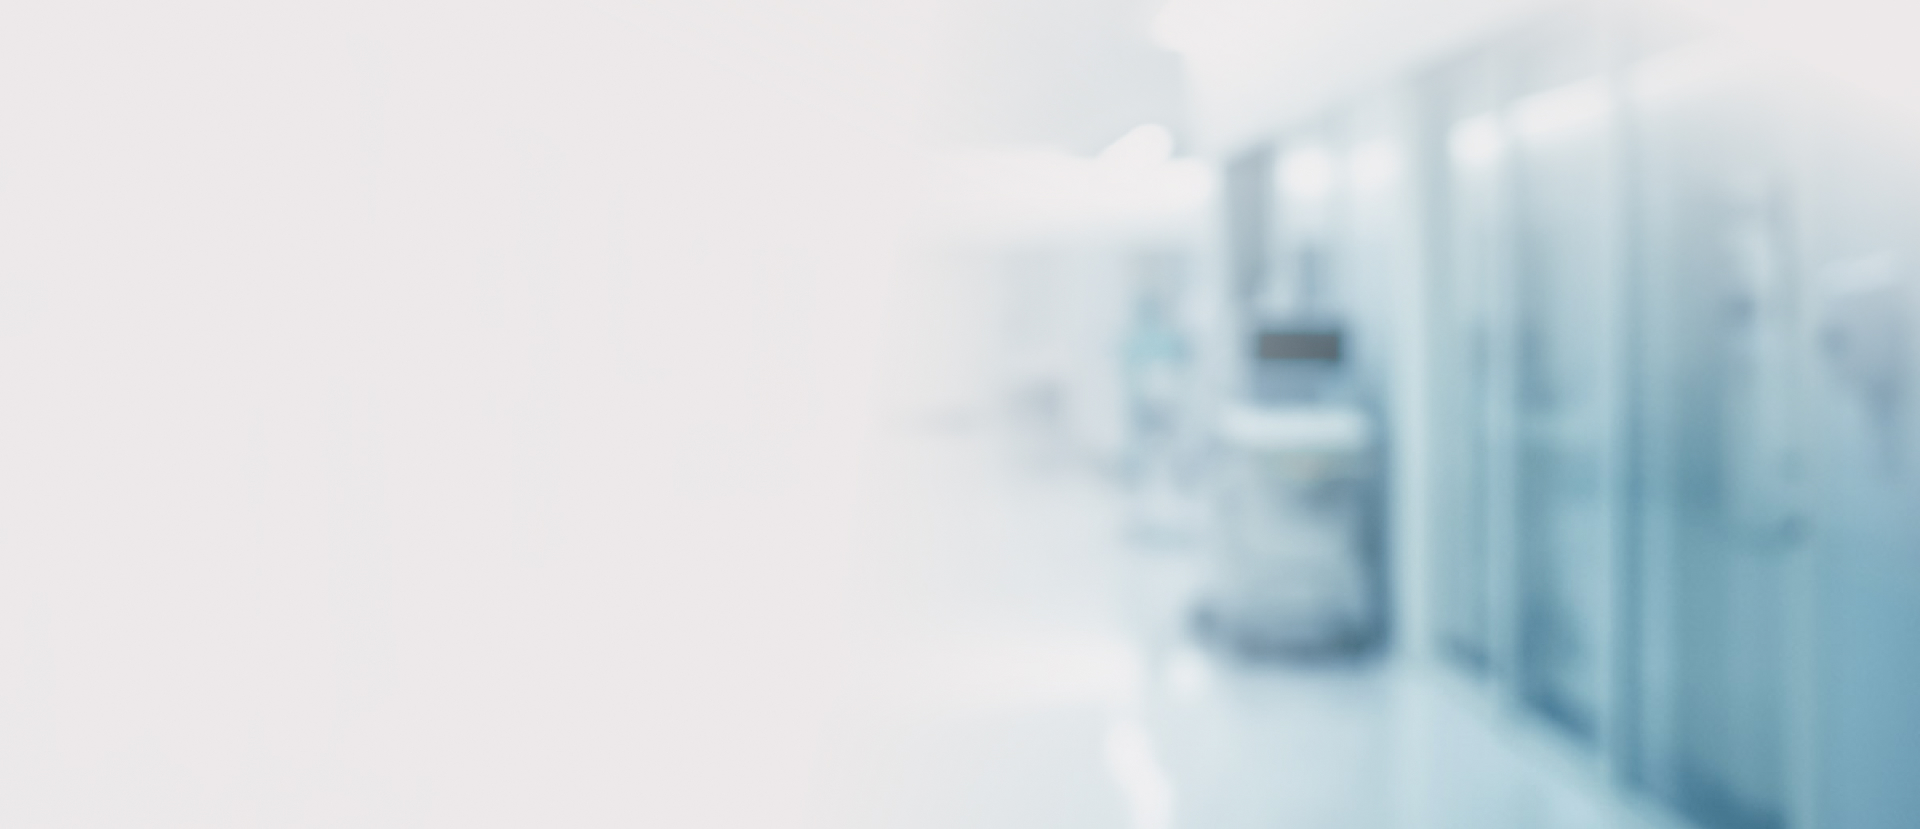
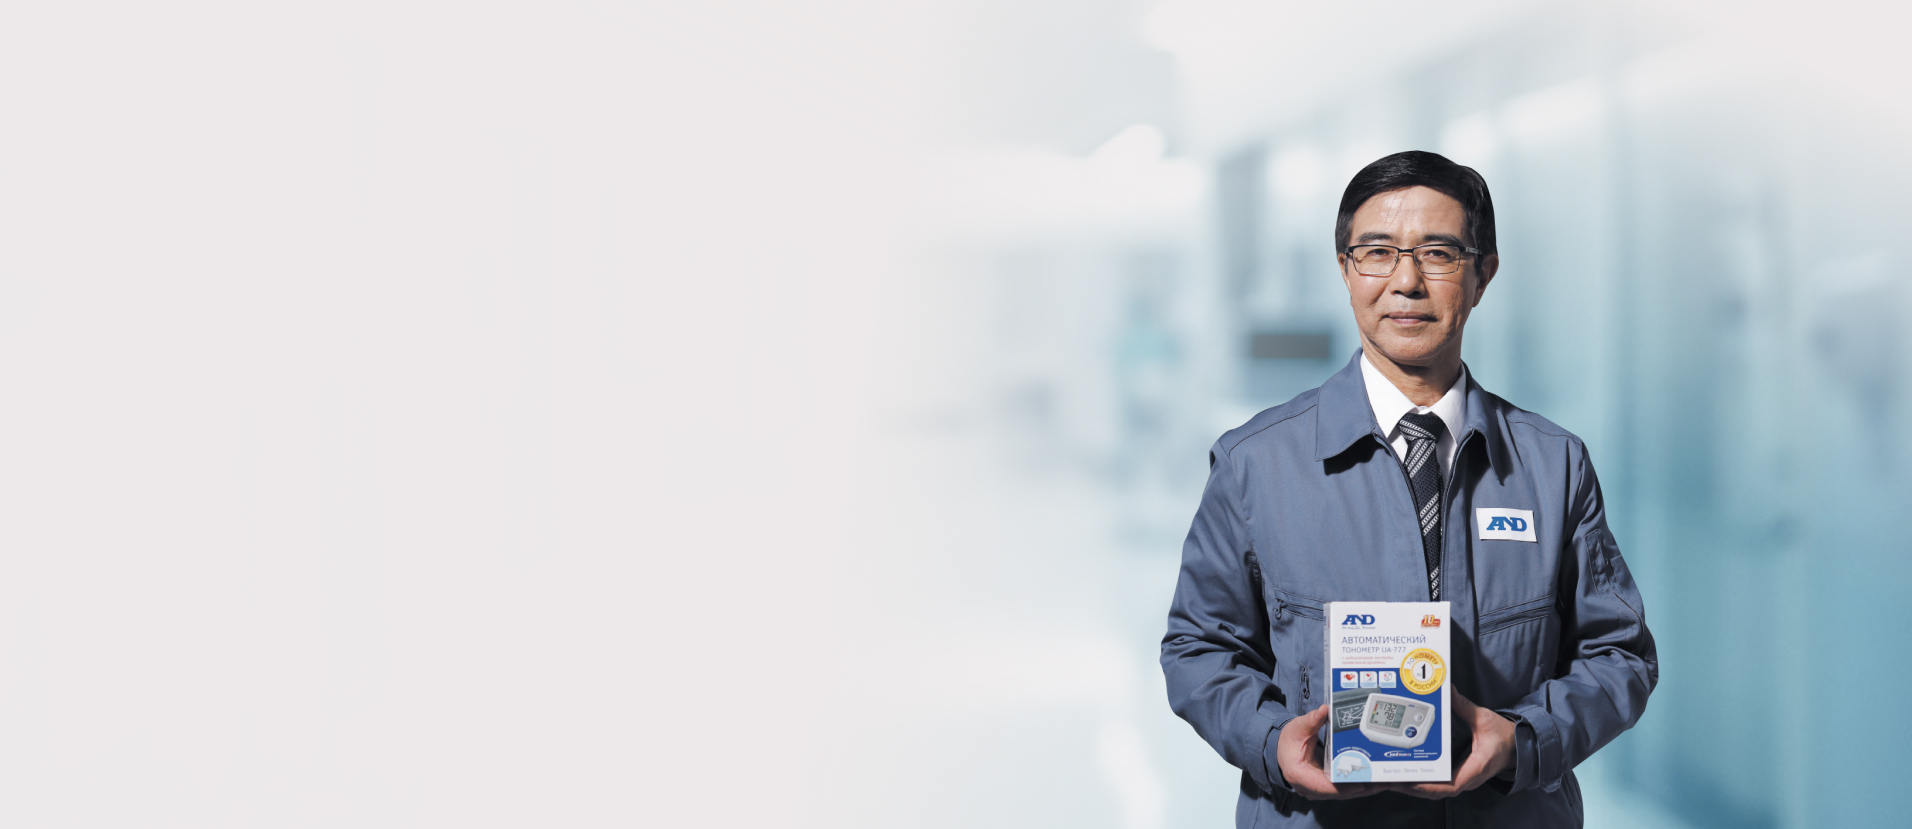
Header

Changed region(s): [[0.5863, 0.1809, 0.8949, 1.0]]

diff --git a/index1.html b/index1.html
@@ -11,7 +11,109 @@
   <link rel="stylesheet" href="./css/media.css">
   <title>AND</title>
 </head>
+<header id="header">
+  <div class="container">
+    <div class="header">
+      <a href="#"><img src="./img/logo.png" alt="AMD" class="header__logo logo"></a>
+      <div class="header__wrap">
+        <nav class="header__navigation">
+          <ul class="header__menu">
+            <li class="header__item"><a href="#" class="header__item-link">О товаре</a></li>
+            <li class="header__item"><a href="#" class="header__item-link">Где купить</a></li>
+            <li class="header__item"><a href="#" class="header__item-link">Помощь</a></li>
+            <li class="header__item"><a href="#" class="header__item-link">Контакты</a></li>
+          </ul>
+        </nav>
+        <div class="header__phone">
+          <a href="tel: 8(800)2000380" class="phone-number">
+            <svg width="23" height="23" viewBox="0 0 23 23" class="phone-icon">
+              <path
+                d="M21.1209 22.5C9.39076 22.5165 0.487638 13.5075 0.500013 1.87912C0.500013 1.11875 1.11601 0.5 1.87501 0.5H5.50501C6.18564 0.5 6.76451 1.0005 6.86489 1.67425C7.10428 3.28995 7.57428 4.86294 8.26051 6.34513L8.40214 6.65037C8.49727 6.85579 8.51774 7.08796 8.46 7.30685C8.40227 7.52573 8.26996 7.71761 8.08589 7.84938C6.96114 8.65238 6.53214 10.268 7.40801 11.5275C8.50664 13.1088 9.89126 14.4948 11.4725 15.5934C12.7334 16.4679 14.349 16.0389 15.1506 14.9155C15.2823 14.7309 15.4743 14.5981 15.6935 14.5401C15.9127 14.4821 16.1453 14.5025 16.351 14.5979L16.6549 14.7381C18.1371 15.4256 19.7101 15.8959 21.3258 16.1351C21.9995 16.2355 22.5 16.8144 22.5 17.4964V21.125C22.5 21.3057 22.4644 21.4846 22.3952 21.6515C22.326 21.8184 22.2246 21.9701 22.0968 22.0978C21.969 22.2255 21.8172 22.3267 21.6502 22.3957C21.4833 22.4648 21.3043 22.5002 21.1236 22.5H21.1209Z" />
+            </svg>
+            8 800 200-03-80
+          </a>
+        </div>
+        <div class="header__social-web">
+          <a href="#" class="header__social-link">
+            <svg width="39" height="39" viewBox="0 0 39 39" fill="none" xmlns="http://www.w3.org/2000/svg">
+              <circle cx="19.5" cy="19.5" r="19.5" fill="#4489C8" />
+              <g clip-path="url(#clip0)">
+                <path fill-rule="evenodd" clip-rule="evenodd"
+                  d="M25.3176 20.4107C25.8536 20.9159 26.4193 21.3913 26.9 21.9475C27.1123 22.1946 27.3133 22.4496 27.4671 22.7365C27.685 23.1442 27.4877 23.5929 27.109 23.6172L24.7552 23.6162C24.1481 23.6649 23.6638 23.4289 23.2566 23.0281C22.9307 22.7076 22.6289 22.3665 22.3155 22.0352C22.1871 21.8998 22.0526 21.7724 21.892 21.6716C21.5706 21.4703 21.2917 21.5319 21.1081 21.8555C20.9211 22.1846 20.8787 22.549 20.8603 22.9158C20.8351 23.451 20.6675 23.5917 20.1108 23.6162C18.9209 23.6703 17.7917 23.4965 16.7427 22.917C15.8178 22.4061 15.1006 21.6848 14.4764 20.8683C13.261 19.2783 12.3302 17.5312 11.4937 15.7351C11.3054 15.3304 11.4431 15.1132 11.9055 15.1055C12.6734 15.0911 13.4412 15.0921 14.21 15.1045C14.5221 15.1089 14.7287 15.2817 14.8492 15.5664C15.2646 16.5527 15.773 17.4911 16.4111 18.3609C16.581 18.5924 16.7543 18.824 17.001 18.987C17.274 19.1675 17.4818 19.1077 17.6102 18.8141C17.6917 18.6279 17.7274 18.4274 17.7458 18.228C17.8066 17.5421 17.8146 16.8573 17.7079 16.1738C17.6424 15.7472 17.3935 15.471 16.9527 15.3903C16.7277 15.3491 16.7612 15.2683 16.8701 15.1443C17.0593 14.9305 17.2373 14.7974 17.592 14.7974H20.2521C20.6709 14.8772 20.7639 15.0588 20.8213 15.4657L20.8236 18.3187C20.819 18.4762 20.905 18.9436 21.1989 19.0478C21.434 19.1221 21.5891 18.9404 21.7302 18.7964C22.3671 18.1438 22.8217 17.3724 23.2278 16.5737C23.408 16.2225 23.5629 15.8578 23.7131 15.4934C23.8244 15.2229 23.999 15.0899 24.3145 15.0958L26.8747 15.098C26.9507 15.098 27.0275 15.0991 27.101 15.1112C27.5324 15.1822 27.6506 15.3614 27.5174 15.7681C27.3074 16.4063 26.8989 16.9381 26.4995 17.4724C26.0726 18.0428 25.6159 18.5937 25.1925 19.1675C24.8035 19.6915 24.8344 19.9556 25.3176 20.4107Z"
+                  fill="white" />
+              </g>
+              <defs>
+                <clipPath id="clip0">
+                  <rect width="16.1571" height="15.6" fill="white" transform="translate(11.4121 11.4116)" />
+                </clipPath>
+              </defs>
+            </svg>
+          </a>
+          <a href="#" class="header__social-link">
+            <svg width="39" height="39" viewBox="0 0 39 39" fill="none" xmlns="http://www.w3.org/2000/svg">
+              <circle cx="19.5" cy="19.5" r="19.5" fill="#3B5998" />
+              <g clip-path="url(#clip0)">
+                <path
+                  d="M23.6516 11.4149L21.6571 11.4116C19.4164 11.4116 17.9684 12.9185 17.9684 15.2508V17.0209H15.963C15.7897 17.0209 15.6494 17.1634 15.6494 17.3392V19.9039C15.6494 20.0796 15.7899 20.222 15.963 20.222H17.9684V26.6935C17.9684 26.8693 18.1087 27.0116 18.282 27.0116H20.8984C21.0716 27.0116 21.212 26.8691 21.212 26.6935V20.222H23.5567C23.73 20.222 23.8703 20.0796 23.8703 19.9039L23.8712 17.3392C23.8712 17.2548 23.8381 17.174 23.7794 17.1142C23.7207 17.0545 23.6407 17.0209 23.5575 17.0209H21.212V15.5204C21.212 14.7991 21.3814 14.433 22.3077 14.433L23.6512 14.4325C23.8244 14.4325 23.9647 14.29 23.9647 14.1144V11.733C23.9647 11.5575 23.8245 11.4152 23.6516 11.4149Z"
+                  fill="white" />
+              </g>
+              <defs>
+                <clipPath id="clip0">
+                  <rect width="15.3803" height="15.6" fill="white" transform="translate(12.1162 11.4116)" />
+                </clipPath>
+              </defs>
+            </svg>
+          </a>
+          <a href="#" class="header__social-link">
+            <svg id="Layer_1" style="enable-background:new 0 0 32 32;" version="1.1" viewBox="0 0 32 32"
+              xml:space="preserve" xmlns="http://www.w3.org/2000/svg" xmlns:xlink="http://www.w3.org/1999/xlink">
+              <style type="text/css">
+                .st0 {
+                  fill: url(#SVGID_1_);
+                }
 
+                .st1 {
+                  fill: #FFFFFF;
+                }
+              </style>
+              <g>
+                <linearGradient gradientTransform="matrix(16.0027 -27.7174 27.7174 16.0027 -878.9595 -482.2268)"
+                  gradientUnits="userSpaceOnUse" id="SVGID_1_" x1="-1.206969e-06" x2="1" y1="32" y2="32">
+                  <stop offset="0" style="stop-color:#FEC053" />
+                  <stop offset="0.327" style="stop-color:#F2203E" />
+                  <stop offset="0.648" style="stop-color:#B729A8" />
+                  <stop offset="1" style="stop-color:#5342D6" />
+                </linearGradient>
+                <path class="st0"
+                  d="M16,0L16,0c8.8,0,16,7.2,16,16c0,8.8-7.2,16-16,16C7.2,32,0,24.8,0,16C0,7.2,7.2,0,16,0z" />
+                <path class="st1"
+                  d="M20.7,6h-9.5C8.3,6,6,8.4,6,11.4v9.2c0,2.9,2.3,5.3,5.3,5.4h9.5c2.9,0,5.3-2.4,5.3-5.4v-9.2   C26,8.4,23.7,6,20.7,6z M24.2,20.5c0,2-1.6,3.7-3.7,3.7h-9.1c-2,0-3.7-1.7-3.6-3.7v-9c0-2,1.6-3.7,3.6-3.7h9.1c2,0,3.7,1.7,3.7,3.7   V20.5z" />
+                <path class="st1"
+                  d="M16,10.9c-2.8-0.1-5.2,2.2-5.2,5c-0.1,2.8,2.2,5.2,5,5.2s5.2-2.2,5.2-5l0-0.1C21.1,13.2,18.8,10.9,16,10.9z    M16,19.3c-1.8,0-3.3-1.4-3.4-3.2c0-1.8,1.4-3.3,3.2-3.4s3.3,1.4,3.4,3.2l0,0.1C19.3,17.8,17.8,19.3,16,19.3z" />
+                <path class="st1"
+                  d="M21.3,9.4c0.6,0,1.1,0.5,1.1,1.2s-0.5,1.2-1.1,1.2s-1.1-0.5-1.1-1.2S20.7,9.4,21.3,9.4z" />
+              </g>
+            </svg>
+          </a>
+        </div>
+      </div>
+    </div>
+    <div class="about">
+      Производитель медицинской техники №1 в России
+    </div>
+    <div class="offer">
+      <h1 class="offer__title">Тонометр <span class="offer__title-different">автоматический UA-777</span></h1>
+      <p class="offer__subtitle">С функциями для точной диагностики артериального давления</p>
+      <div class="offer__button-wrap">
+        <a href="#" class="offer__btn btn buy-button">Купить сейчас</a>
+        <a href="#" class="offer__btn btn">Узнать подробнее</a>
+        <a href="#" class="offer__btn btn">Посмотреть видеоинструкцию</a>
+      </div>
+      <p class="offer__postscript">* По данным «Национального фармацевтического рейтинга — 2019» по объёму продаж в
+        аптечных организациях РФ (в рублях).</p>
+    </div>
+  </div>
+</header>
 
 </body>
 

diff --git a/css/main.css b/css/main.css
@@ -5,6 +5,174 @@
 body {
   padding: 0;
   margin: 0;
+  color: #000;
   font-size: 18px;
+  line-height: 26px;
   font-family: "Roboto", sans-serif;
+}
+
+h1,
+h2,
+h3,
+h4,
+h5 {
+  font-weight: 700;
+  margin: 0;
+  padding: 0;
+}
+a {
+  display: block;
+  text-decoration: none;
+}
+p {
+  margin: 0;
+  padding: 0;
+}
+ul,
+li {
+  list-style: none;
+  padding: 0;
+  margin: 0;
+}
+button {
+  outline: none;
+  cursor: pointer;
+}
+span {
+  display: block;
+}
+input {
+  border: none;
+  outline: none;
+  font-weight: 500;
+}
+.container {
+  width: 1170px;
+  margin: 0 auto;
+  padding: 0 15px;
+}
+.btn {
+  font-weight: 700;
+  border-radius: 60px;
+}
+
+/* Header */
+
+#header {
+  background: url(../img/header-bg1.jpg);
+  background-repeat: no-repeat;
+  background-position: top center;
+  background-size: cover;
+  padding-top: 46px;
+  padding-bottom: 17px;
+}
+
+.header {
+  display: flex;
+  align-items: center;
+  justify-content: space-between;
+}
+.header__wrap {
+  display: flex;
+  align-items: center;
+}
+.header__menu {
+  display: flex;
+  align-items: center;
+  margin-right: 35px;
+}
+.header__item {
+  margin-right: 26px;
+}
+.header__item-link {
+  color: #000;
+  transition: 0.1s;
+  font-weight: 400;
+}
+.header__item-link:hover {
+  color: #0066b7;
+  transform: scale(1.03);
+}
+.header__phone {
+  margin-right: 66px;
+}
+.phone-number {
+  color: #000;
+  display: flex;
+  align-items: center;
+  transition: 0.1s;
+}
+.phone-number:hover {
+  color: #0066b7;
+}
+.phone-icon {
+  fill: #0066b3;
+  margin-right: 18px;
+}
+.header__social-web {
+  display: grid;
+  grid-template-columns: 1fr 1fr 1fr;
+  grid-gap: 15px;
+}
+.about {
+  width: 334px;
+  text-transform: uppercase;
+  color: #005caa;
+  font-weight: 700;
+  line-height: 19px;
+  font-size: 16px;
+  margin-top: 25px;
+}
+.offer {
+  margin-top: 42px;
+}
+.offer__title {
+  width: 615px;
+  font-size: 62px;
+  line-height: 73px;
+  text-transform: uppercase;
+}
+.offer__title-different {
+  color: #005caa;
+}
+.offer__subtitle {
+  font-size: 24px;
+  line-height: 28px;
+  color: #6f6f6f;
+  font-style: italic;
+  margin-top: 22px;
+}
+.offer__button-wrap {
+  margin-top: 32px;
+  display: inline-block;
+  margin-bottom: 41px;
+}
+.offer__btn {
+  color: #0066b7;
+  background: #fff;
+  margin-bottom: 24px;
+  text-align: center;
+  padding: 20px;
+  transition: 0.1s;
+}
+.offer__btn:last-child {
+  margin-bottom: 0;
+}
+.offer__btn:hover {
+  color: #fff;
+  background: #0066b7;
+}
+.buy-button {
+  color: #fff;
+  background: #0066b7;
+  transition: 0.1s;
+}
+.buy-button:hover {
+  background: #01599f;
+}
+.offer__postscript {
+  font-weight: 500;
+  font-size: 14px;
+  line-height: 22px;
+  color: #6f6f6f;
 }
